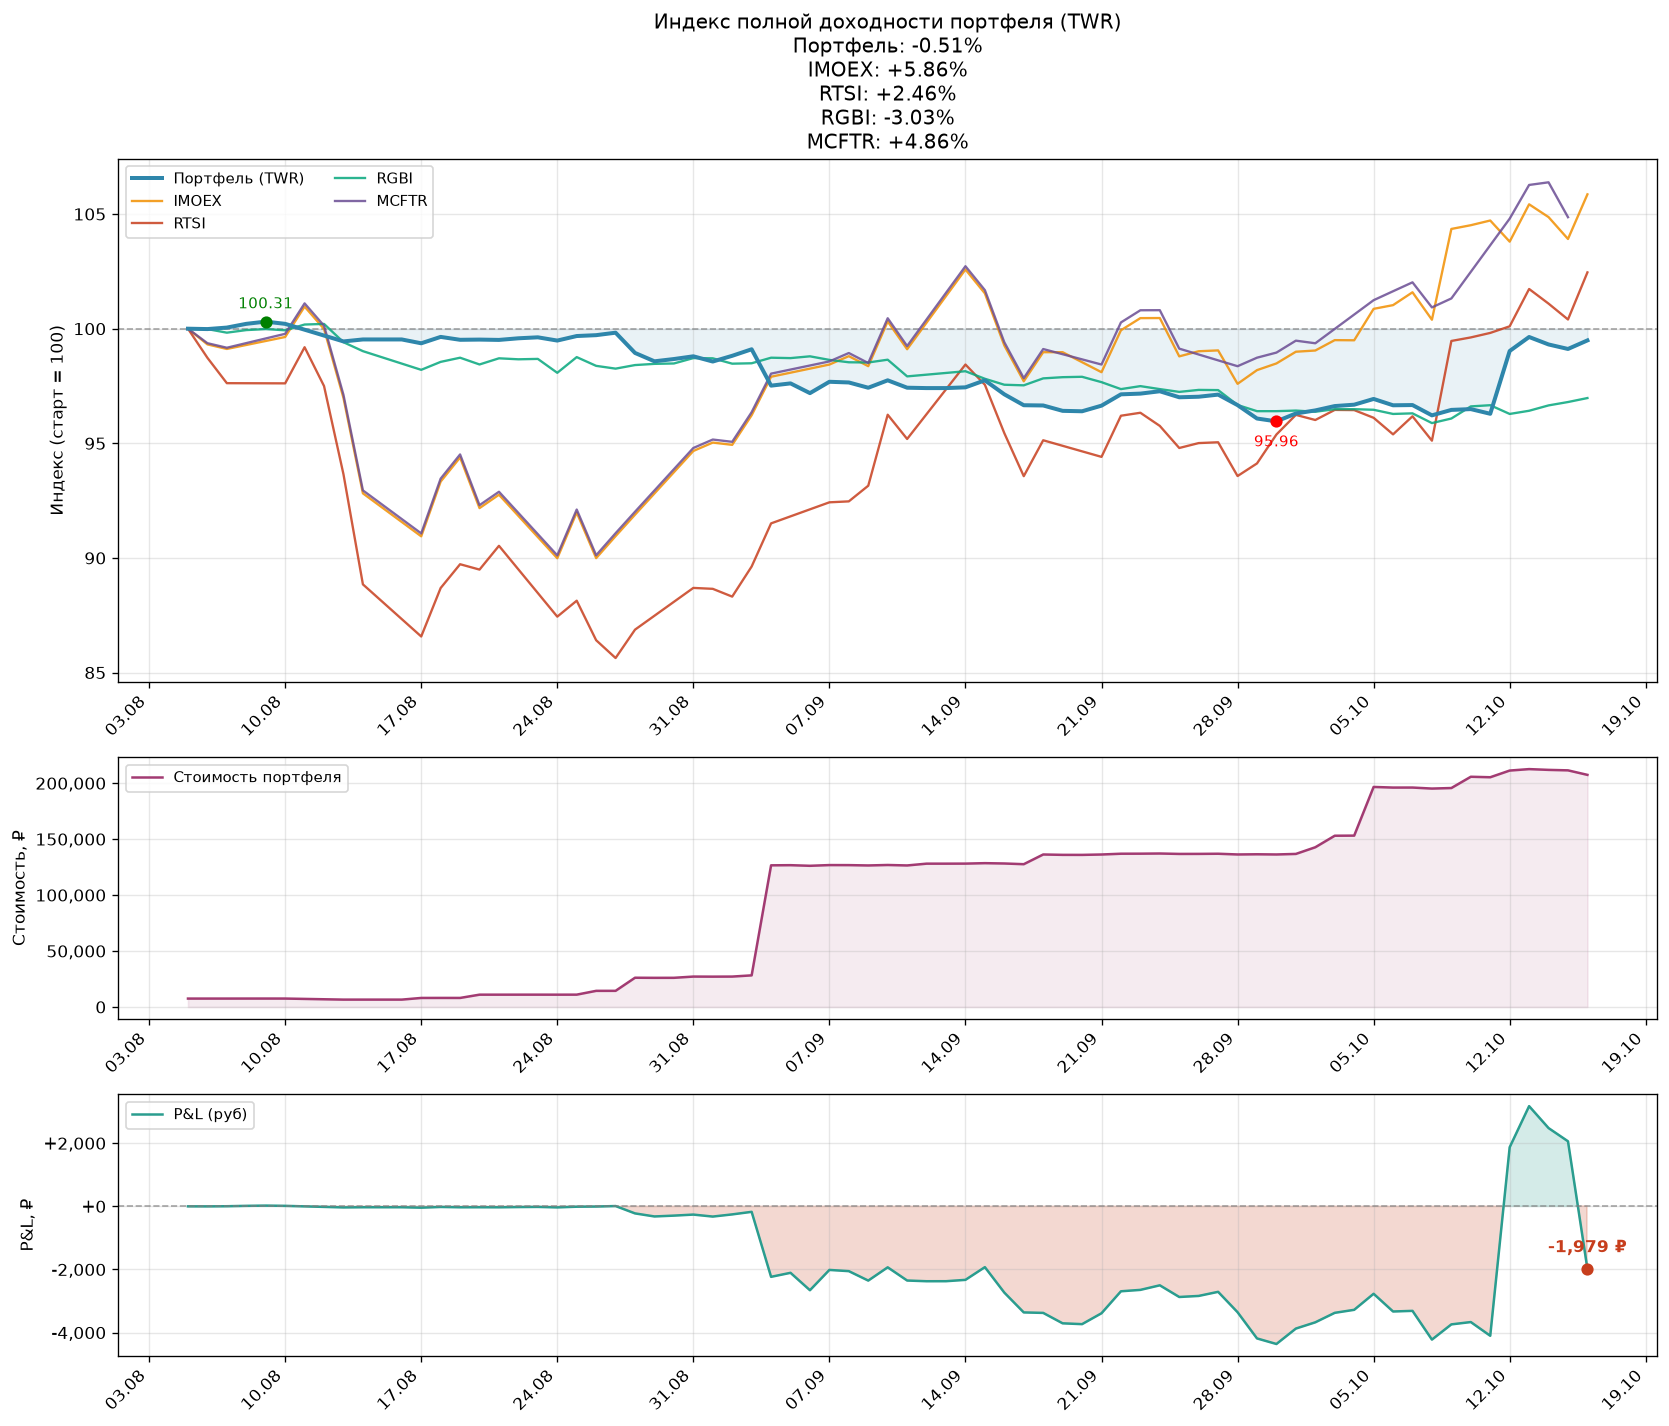
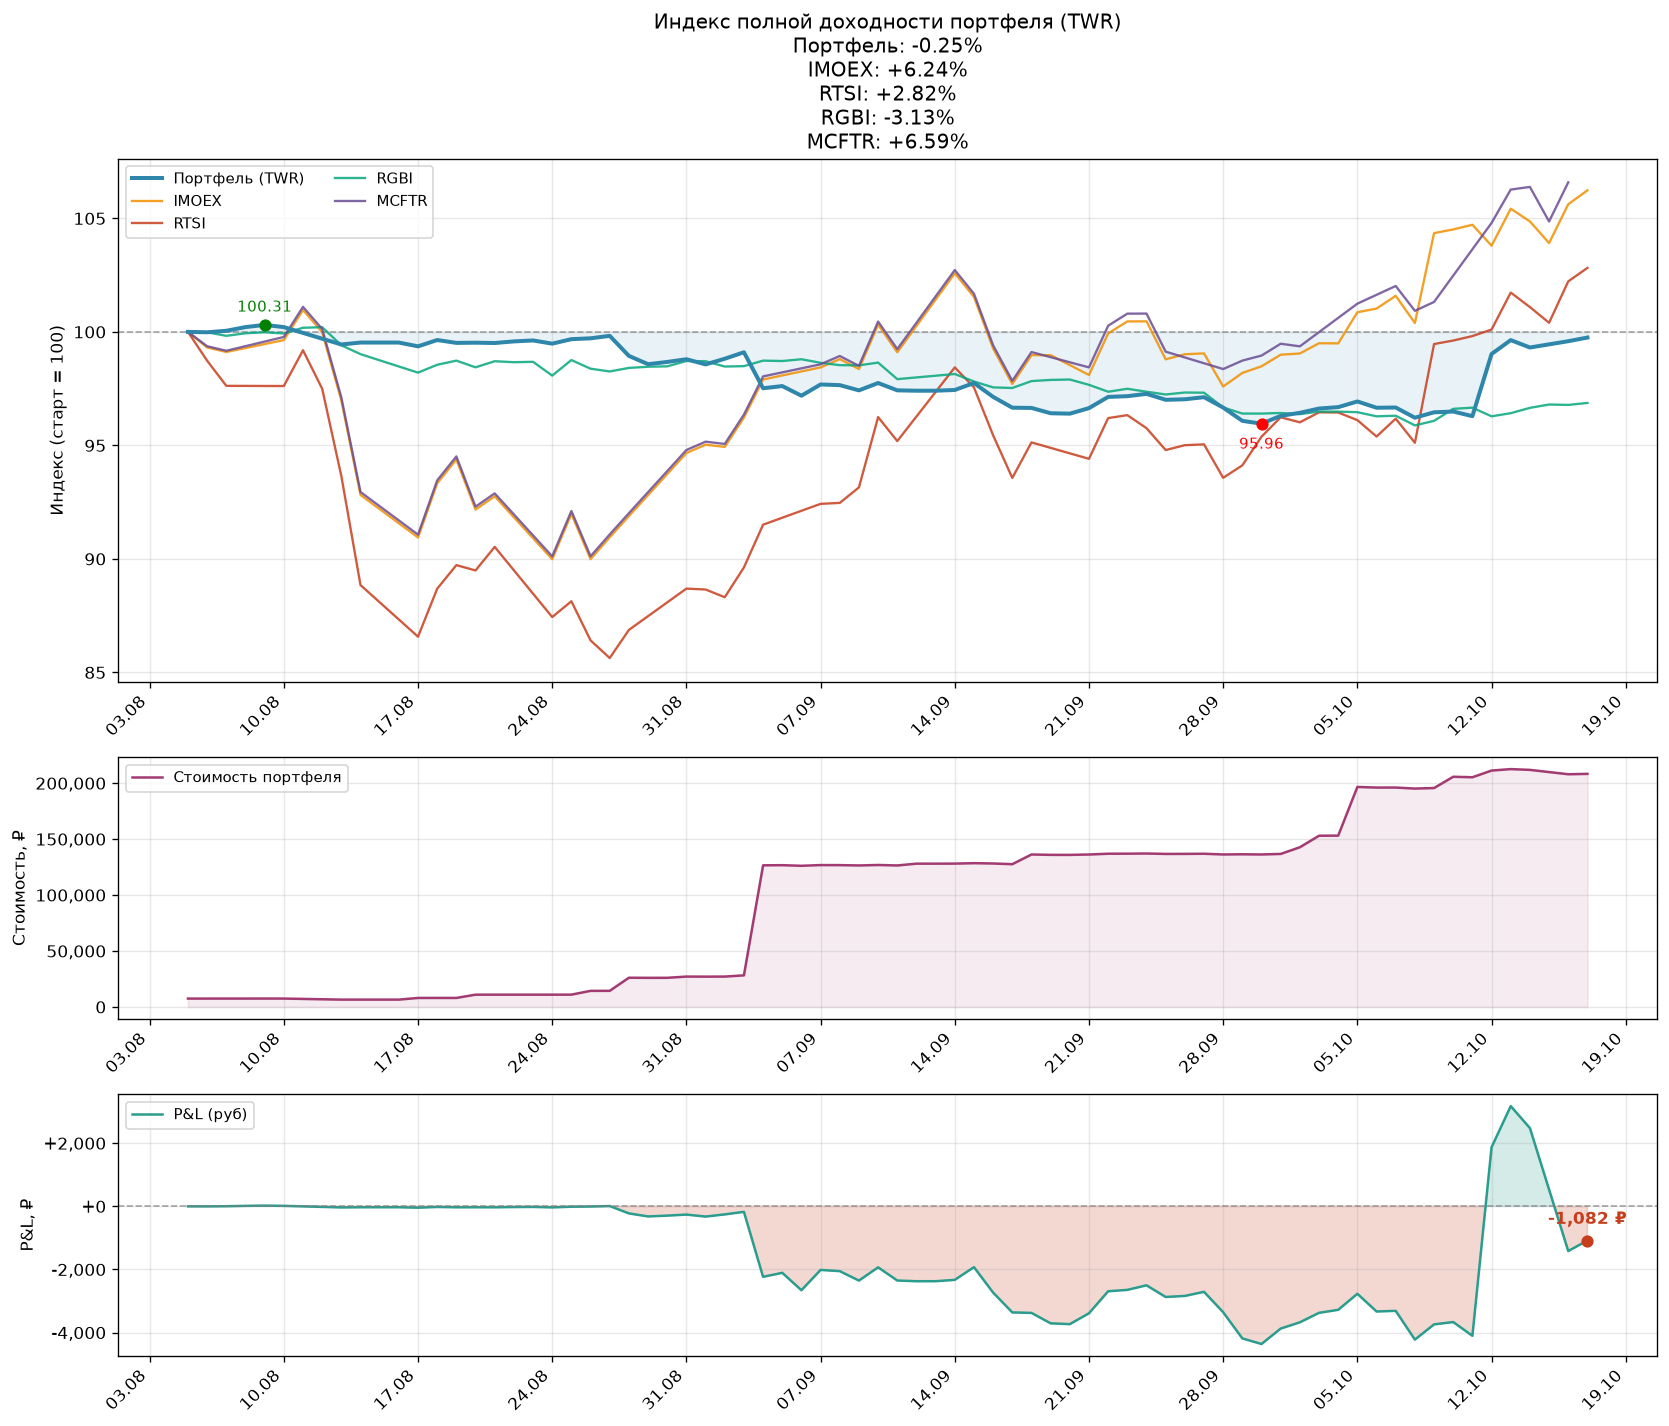
pnl2

diff --git a/invest/index_builder.py b/invest/index_builder.py
@@ -542,7 +542,32 @@ def build_snapshots_for_period(session, date_from: date, date_to: date,
 
     stats = {'added': 0, 'updated': 0, 'skipped': 0}
 
+    # --- ЗАЩИТА ОТ ПАДЕНИЯ СТОИМОСТИ ---
+    # Получаем предыдущую стоимость из БД (до date_from)
+    prev_total = 0.0
+    existing_snapshots = crud.get_snapshots(account_id)
+    if existing_snapshots:
+        # Берем последний снапшот, который был ДО date_from
+        for s in reversed(existing_snapshots):
+            if s.date.date() < date_from:
+                prev_total = float(s.total_value)
+                break
+
     for d in sorted(total_values.keys()):
+        curr_total = total_values[d]
+        flow = flows.get(d, 0.0)
+
+        # Если капитал внезапно упал более чем на 50%, и это не вывод средств
+        # (вывод был бы flow < 0), то это ошибка API (нет цен).
+        if prev_total > 10000 and curr_total < prev_total * 0.5 and flow >= 0:
+            logger.warning(
+                "ЗАЩИТА: %s стоимость упала с %.2f до %.2f (flow=%.2f). "
+                "Пропускаем запись снапшота, чтобы не сломать график.",
+                d, prev_total, curr_total, flow
+            )
+            stats['skipped'] += 1
+            continue  # Пропускаем запись этого дня
+
         result = crud.upsert_snapshot(d, account_id, {
             'total_value': total_values[d],
             'paper_value': paper_values[d],
@@ -553,5 +578,6 @@ def build_snapshots_for_period(session, date_from: date, date_to: date,
             'positions_count': positions_count.get(d, 0),
         })
         stats[result] += 1
+        prev_total = curr_total  # Обновляем для следующего дня
 
     return stats
